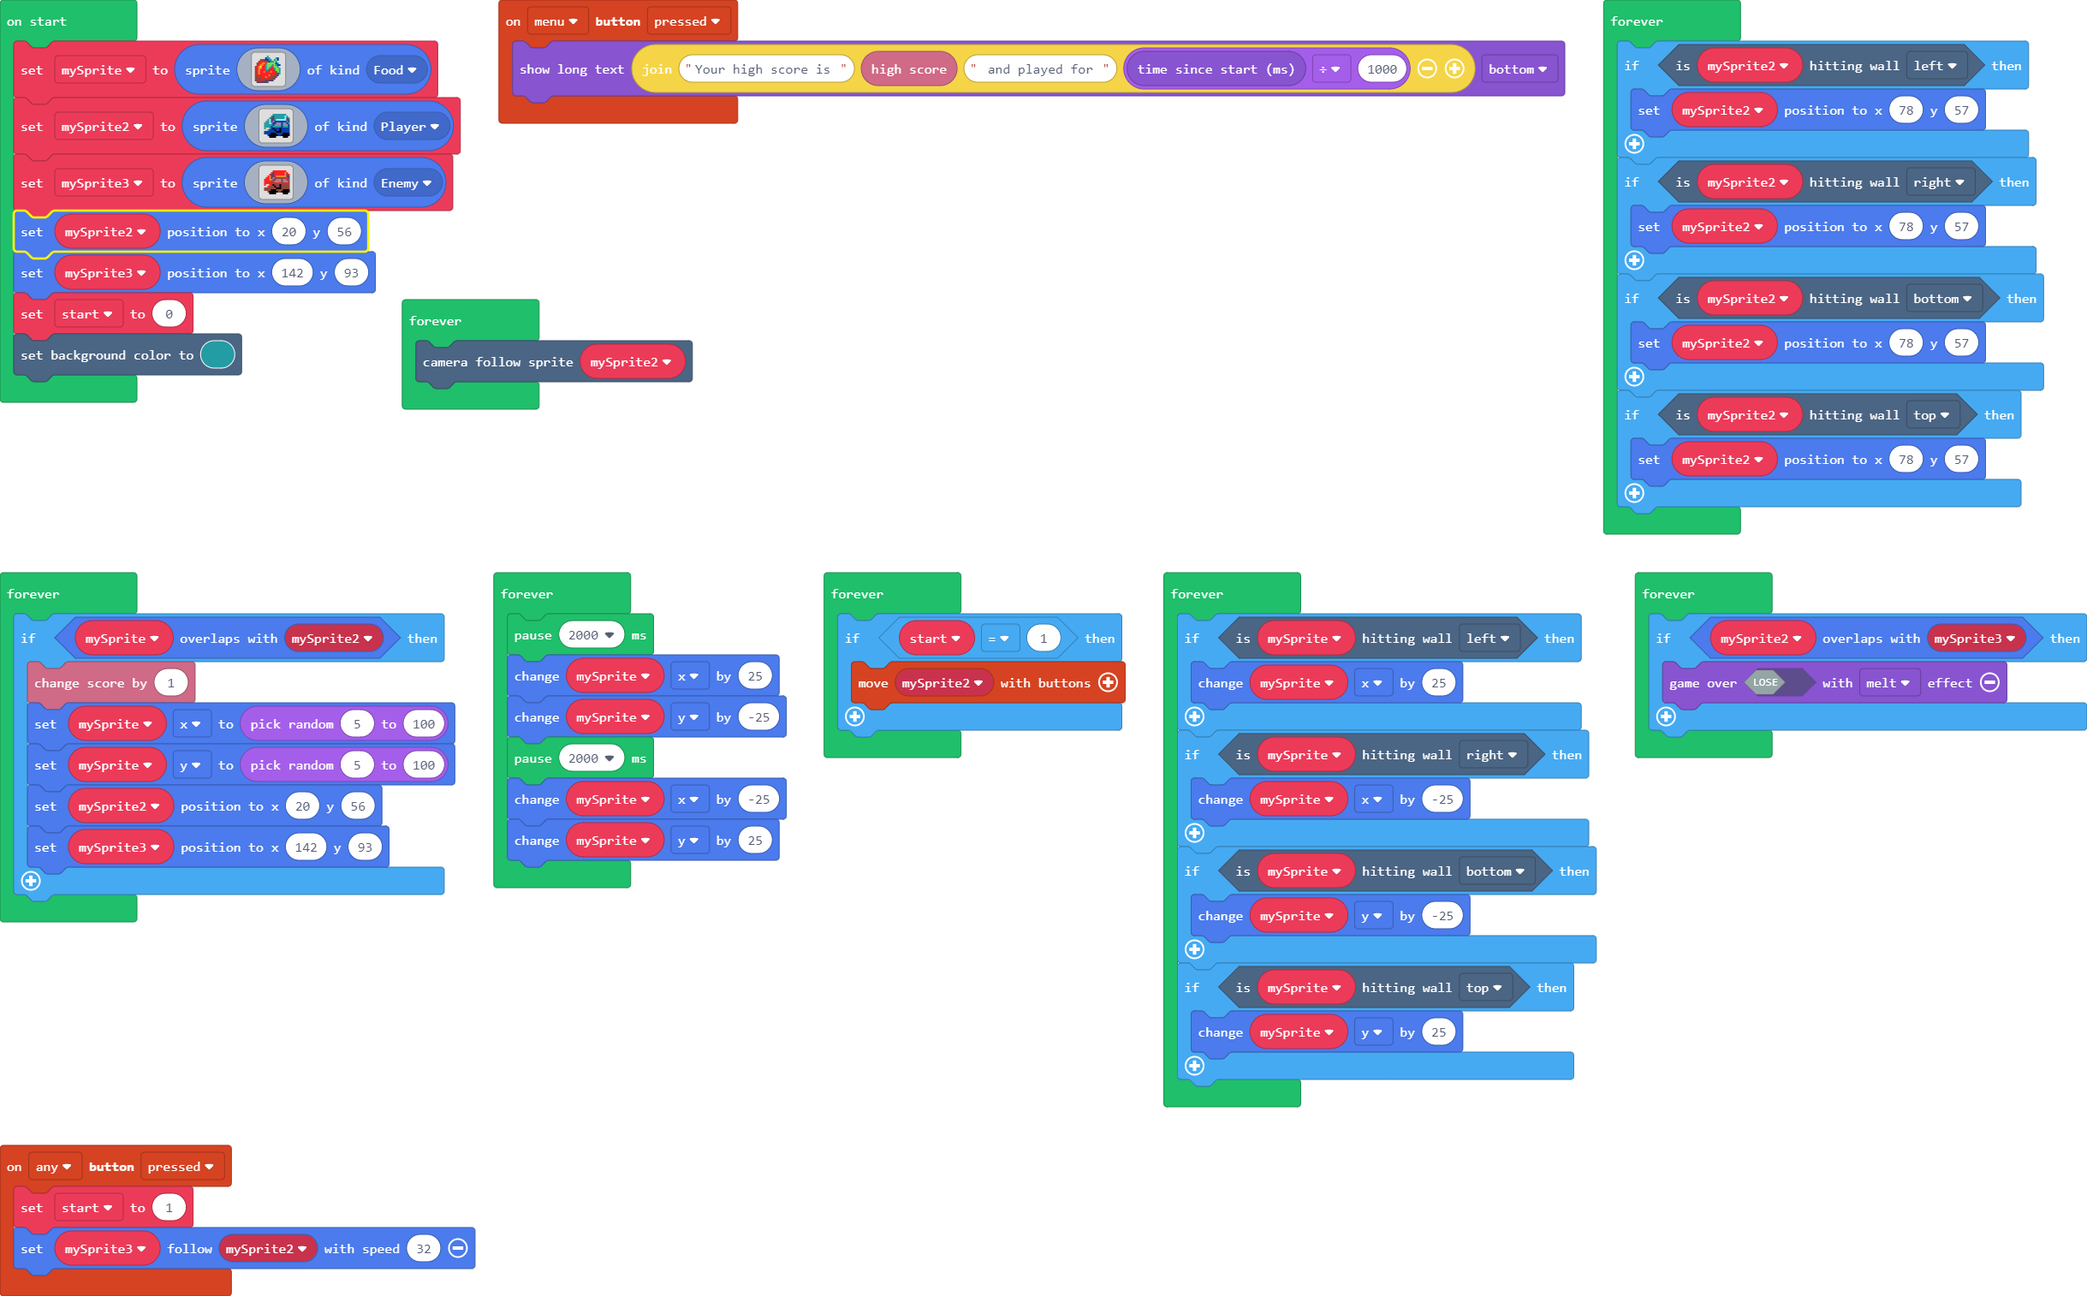
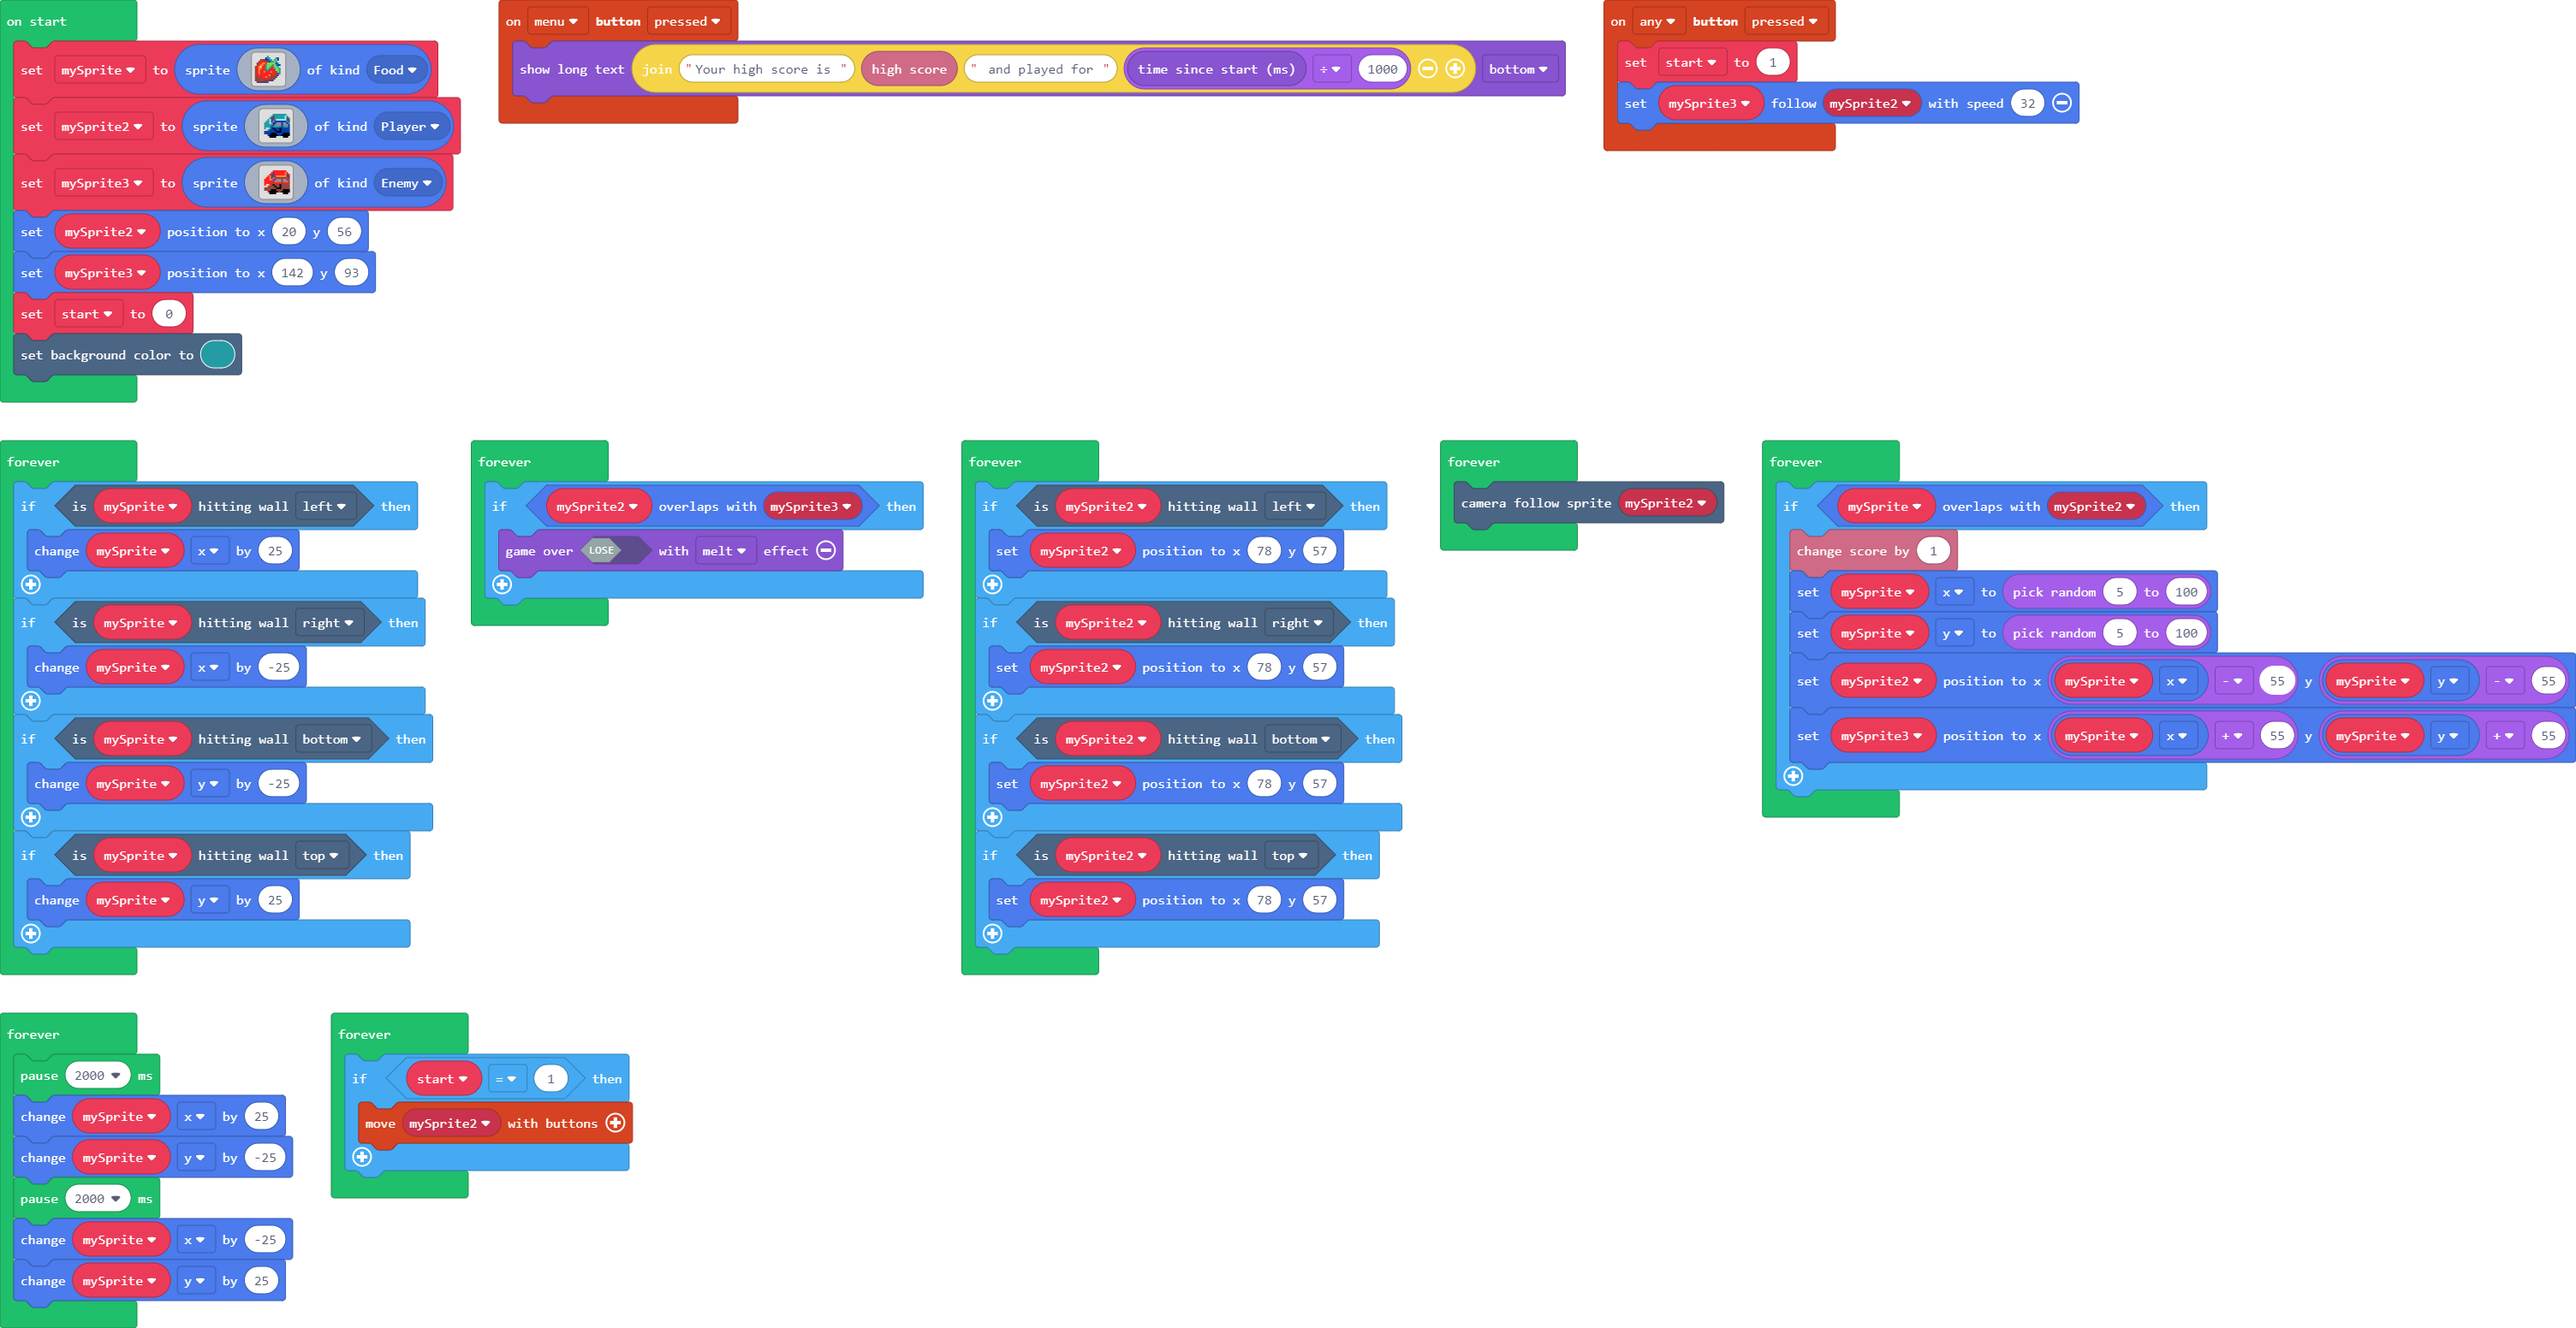
Some improvements.

diff --git a/main.ts b/main.ts
@@ -13,63 +13,82 @@ let start = 0
 let mySprite3: Sprite = null
 let mySprite2: Sprite = null
 let mySprite = sprites.create(img`
-    . . . . . . . 6 . . . . . . . .
-    . . . . . . 8 6 6 . . . 6 8 . .
-    . . . e e e 8 8 6 6 . 6 7 8 . .
-    . . e 2 2 2 2 e 8 6 6 7 6 . . .
-    . e 2 2 4 4 2 7 7 7 7 7 8 6 . .
-    . e 2 4 4 2 6 7 7 7 6 7 6 8 8 .
-    e 2 4 5 2 2 6 7 7 6 2 7 7 6 . .
-    e 2 4 4 2 2 6 7 6 2 2 6 7 7 6 .
-    e 2 4 2 2 2 6 6 2 2 2 e 7 7 6 .
-    e 2 4 2 2 4 2 2 2 4 2 2 e 7 6 .
-    e 2 4 2 2 2 2 2 2 2 2 2 e c 6 .
-    e 2 2 2 2 2 2 2 4 e 2 e e c . .
-    e e 2 e 2 2 4 2 2 e e e c . . .
-    e e e e 2 e 2 2 e e e c . . . .
-    e e e 2 e e c e c c c . . . . .
-    . c c c c c c c . . . . . . . .
+. . . . . . . 6 . . . . . . . . 
+. . . . . . 8 6 6 . . . 6 8 . . 
+. . . e e e 8 8 6 6 . 6 7 8 . . 
+. . e 2 2 2 2 e 8 6 6 7 6 . . . 
+. e 2 2 4 4 2 7 7 7 7 7 8 6 . . 
+. e 2 4 4 2 6 7 7 7 6 7 6 8 8 . 
+e 2 4 5 2 2 6 7 7 6 2 7 7 6 . . 
+e 2 4 4 2 2 6 7 6 2 2 6 7 7 6 . 
+e 2 4 2 2 2 6 6 2 2 2 e 7 7 6 . 
+e 2 4 2 2 4 2 2 2 4 2 2 e 7 6 . 
+e 2 4 2 2 2 2 2 2 2 2 2 e c 6 . 
+e 2 2 2 2 2 2 2 4 e 2 e e c . . 
+e e 2 e 2 2 4 2 2 e e e c . . . 
+e e e e 2 e 2 2 e e e c . . . . 
+e e e 2 e e c e c c c . . . . . 
+. c c c c c c c . . . . . . . . 
 `, SpriteKind.Food)
 mySprite2 = sprites.create(img`
-    . . . . . . . . . . . . . . . .
-    . . . . . . 6 6 6 6 6 6 6 6 . .
-    . . . . . 6 c 6 6 6 6 6 6 9 6 .
-    . . . . 6 c c 6 6 6 6 6 6 9 c 6
-    . . d 6 9 c c 6 9 9 9 9 9 9 c c
-    . d 6 6 9 c b 8 8 8 8 8 8 8 6 c
-    . 6 6 6 9 b 8 8 b b b 8 b b 8 6
-    . 6 6 6 6 6 8 b b b b 8 b b b 8
-    . 6 6 6 6 8 6 6 6 6 6 8 6 6 6 8
-    . 6 d d 6 8 f 8 8 8 f 8 8 8 8 8
-    . d d 6 8 8 8 f 8 8 f 8 8 8 8 8
-    . 8 8 8 8 8 8 8 f f f 8 8 8 8 8
-    . 8 8 8 8 f f f 8 8 8 8 f f f f
-    . . . 8 f f f f f 8 8 f f f f f
-    . . . . f f f f . . . . f f f .
-    . . . . . . . . . . . . . . . .
+. . . . . . . . . . . . . . . . 
+. . . . . . 6 6 6 6 6 6 6 6 . . 
+. . . . . 6 c 6 6 6 6 6 6 9 6 . 
+. . . . 6 c c 6 6 6 6 6 6 9 c 6 
+. . d 6 9 c c 6 9 9 9 9 9 9 c c 
+. d 6 6 9 c b 8 8 8 8 8 8 8 6 c 
+. 6 6 6 9 b 8 8 b b b 8 b b 8 6 
+. 6 6 6 6 6 8 b b b b 8 b b b 8 
+. 6 6 6 6 8 6 6 6 6 6 8 6 6 6 8 
+. 6 d d 6 8 f 8 8 8 f 8 8 8 8 8 
+. d d 6 8 8 8 f 8 8 f 8 8 8 8 8 
+. 8 8 8 8 8 8 8 f f f 8 8 8 8 8 
+. 8 8 8 8 f f f 8 8 8 8 f f f f 
+. . . 8 f f f f f 8 8 f f f f f 
+. . . . f f f f . . . . f f f . 
+. . . . . . . . . . . . . . . . 
 `, SpriteKind.Player)
 mySprite3 = sprites.create(img`
-    . . . . . . . . . . . . . . . .
-    . . . . . . 2 2 2 2 2 2 2 2 . .
-    . . . . . 2 c 2 2 2 2 2 2 4 2 .
-    . . . . 2 c c 2 2 2 2 2 2 4 c 2
-    . . d 2 4 c c 2 4 4 4 4 4 4 c c
-    . d 2 2 4 c b e e e e e e e 2 c
-    . 2 2 2 4 b e e b b b e b b e 2
-    . 2 2 2 2 2 e b b b b e b b b e
-    . 2 2 2 2 e 2 2 2 2 2 e 2 2 2 e
-    . 2 d d 2 e f e e e f e e e e e
-    . d d 2 e e e f e e f e e e e e
-    . e e e e e e e f f f e e e e e
-    . e e e e f f f e e e e f f f f
-    . . . e f f f f f e e f f f f f
-    . . . . f f f f . . . . f f f .
-    . . . . . . . . . . . . . . . .
+. . . . . . . . . . . . . . . . 
+. . . . . . 2 2 2 2 2 2 2 2 . . 
+. . . . . 2 c 2 2 2 2 2 2 4 2 . 
+. . . . 2 c c 2 2 2 2 2 2 4 c 2 
+. . d 2 4 c c 2 4 4 4 4 4 4 c c 
+. d 2 2 4 c b e e e e e e e 2 c 
+. 2 2 2 4 b e e b b b e b b e 2 
+. 2 2 2 2 2 e b b b b e b b b e 
+. 2 2 2 2 e 2 2 2 2 2 e 2 2 2 e 
+. 2 d d 2 e f e e e f e e e e e 
+. d d 2 e e e f e e f e e e e e 
+. e e e e e e e f f f e e e e e 
+. e e e e f f f e e e e f f f f 
+. . . e f f f f f e e f f f f f 
+. . . . f f f f . . . . f f f . 
+. . . . . . . . . . . . . . . . 
 `, SpriteKind.Enemy)
 mySprite2.setPosition(20, 56)
 mySprite3.setPosition(142, 93)
 start = 0
 scene.setBackgroundColor(6)
+forever(function () {
+    if (mySprite.isHittingTile(CollisionDirection.Left)) {
+        mySprite.x += 25
+    }
+    if (mySprite.isHittingTile(CollisionDirection.Right)) {
+        mySprite.x += -25
+    }
+    if (mySprite.isHittingTile(CollisionDirection.Bottom)) {
+        mySprite.y += -25
+    }
+    if (mySprite.isHittingTile(CollisionDirection.Top)) {
+        mySprite.y += 25
+    }
+})
+forever(function () {
+    if (mySprite2.overlapsWith(mySprite3)) {
+        game.over(false, effects.melt)
+    }
+})
 forever(function () {
     if (mySprite2.isHittingTile(CollisionDirection.Left)) {
         mySprite2.setPosition(78, 57)
@@ -92,8 +111,8 @@ forever(function () {
         info.changeScoreBy(1)
         mySprite.x = Math.randomRange(5, 100)
         mySprite.y = Math.randomRange(5, 100)
-        mySprite2.setPosition(20, 56)
-        mySprite3.setPosition(142, 93)
+        mySprite2.setPosition(mySprite.x - 55, mySprite.y - 55)
+        mySprite3.setPosition(mySprite.x + 55, mySprite.y + 55)
     }
 })
 forever(function () {
@@ -107,24 +126,5 @@ forever(function () {
 forever(function () {
     if (start == 1) {
         controller.moveSprite(mySprite2)
-    }
-})
-forever(function () {
-    if (mySprite.isHittingTile(CollisionDirection.Left)) {
-        mySprite.x += 25
-    }
-    if (mySprite.isHittingTile(CollisionDirection.Right)) {
-        mySprite.x += -25
-    }
-    if (mySprite.isHittingTile(CollisionDirection.Bottom)) {
-        mySprite.y += -25
-    }
-    if (mySprite.isHittingTile(CollisionDirection.Top)) {
-        mySprite.y += 25
-    }
-})
-forever(function () {
-    if (mySprite2.overlapsWith(mySprite3)) {
-        game.over(false, effects.melt)
     }
 })
